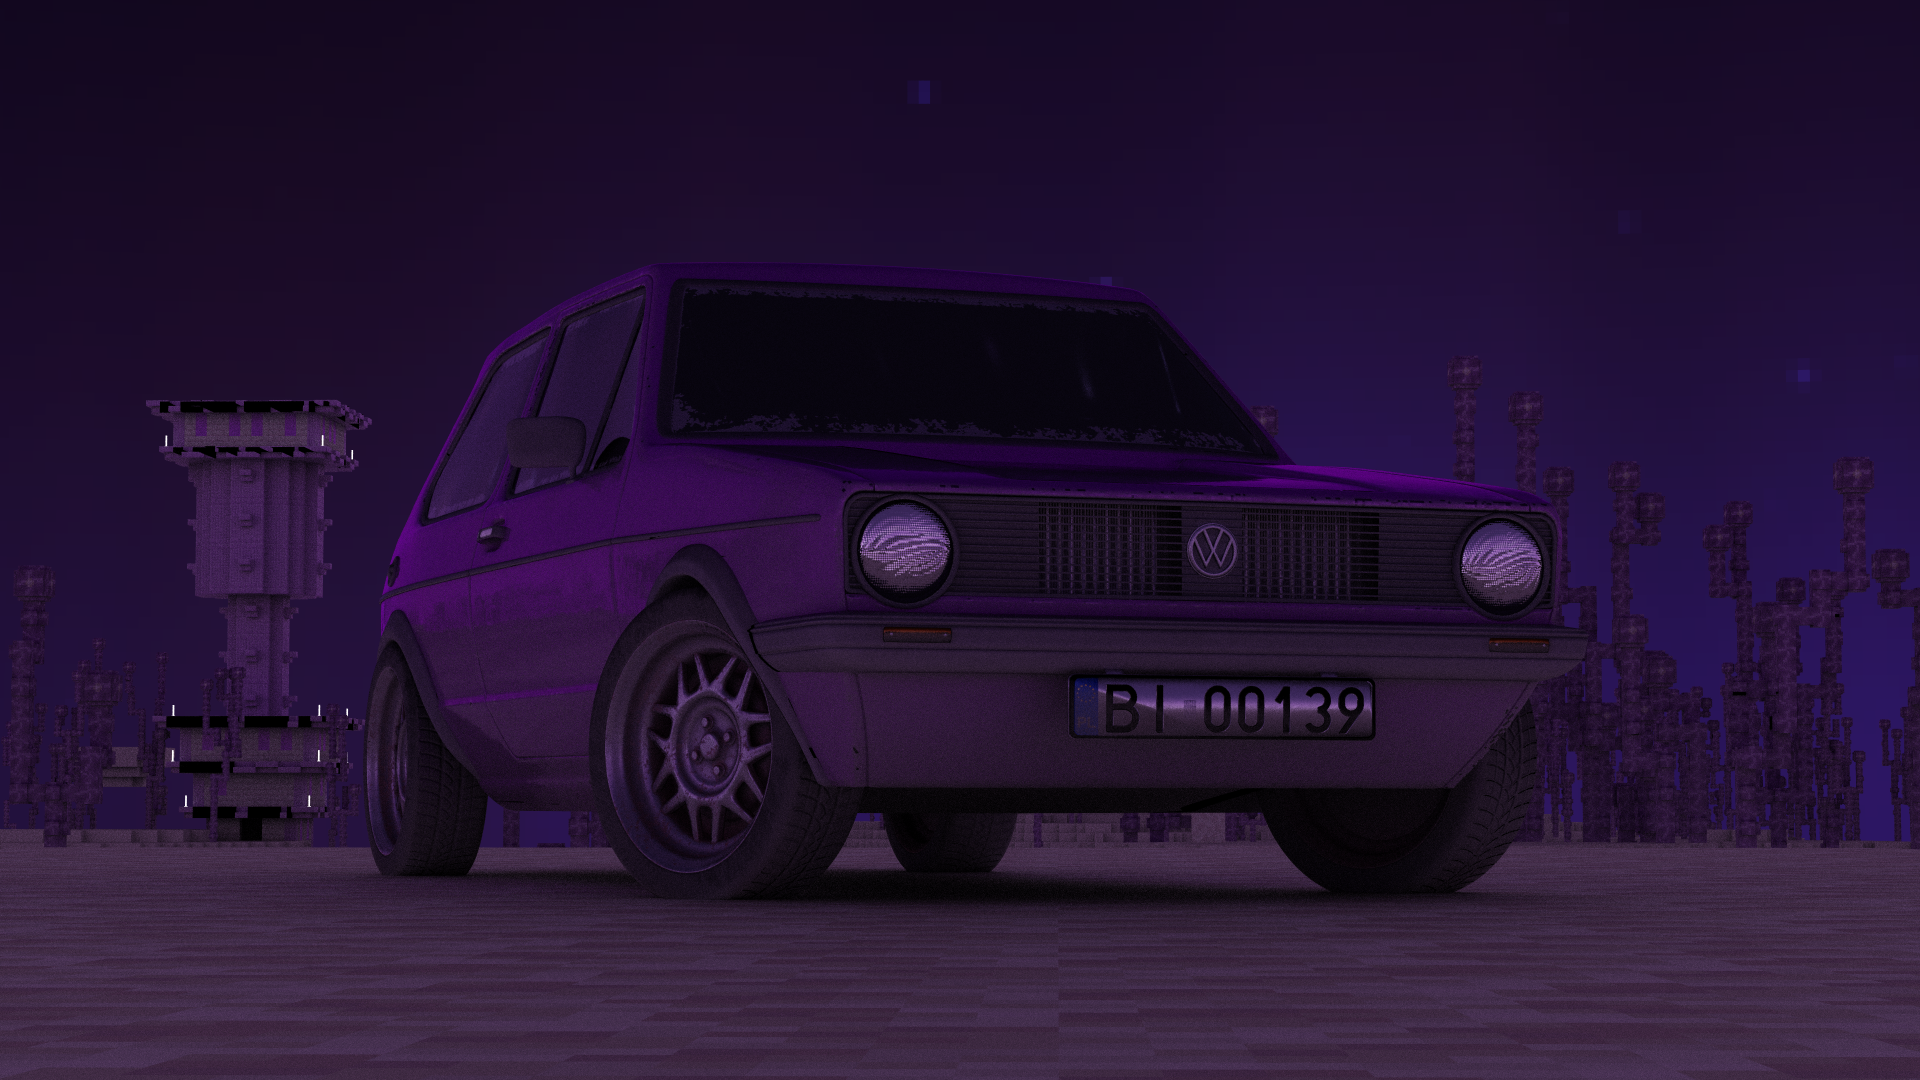
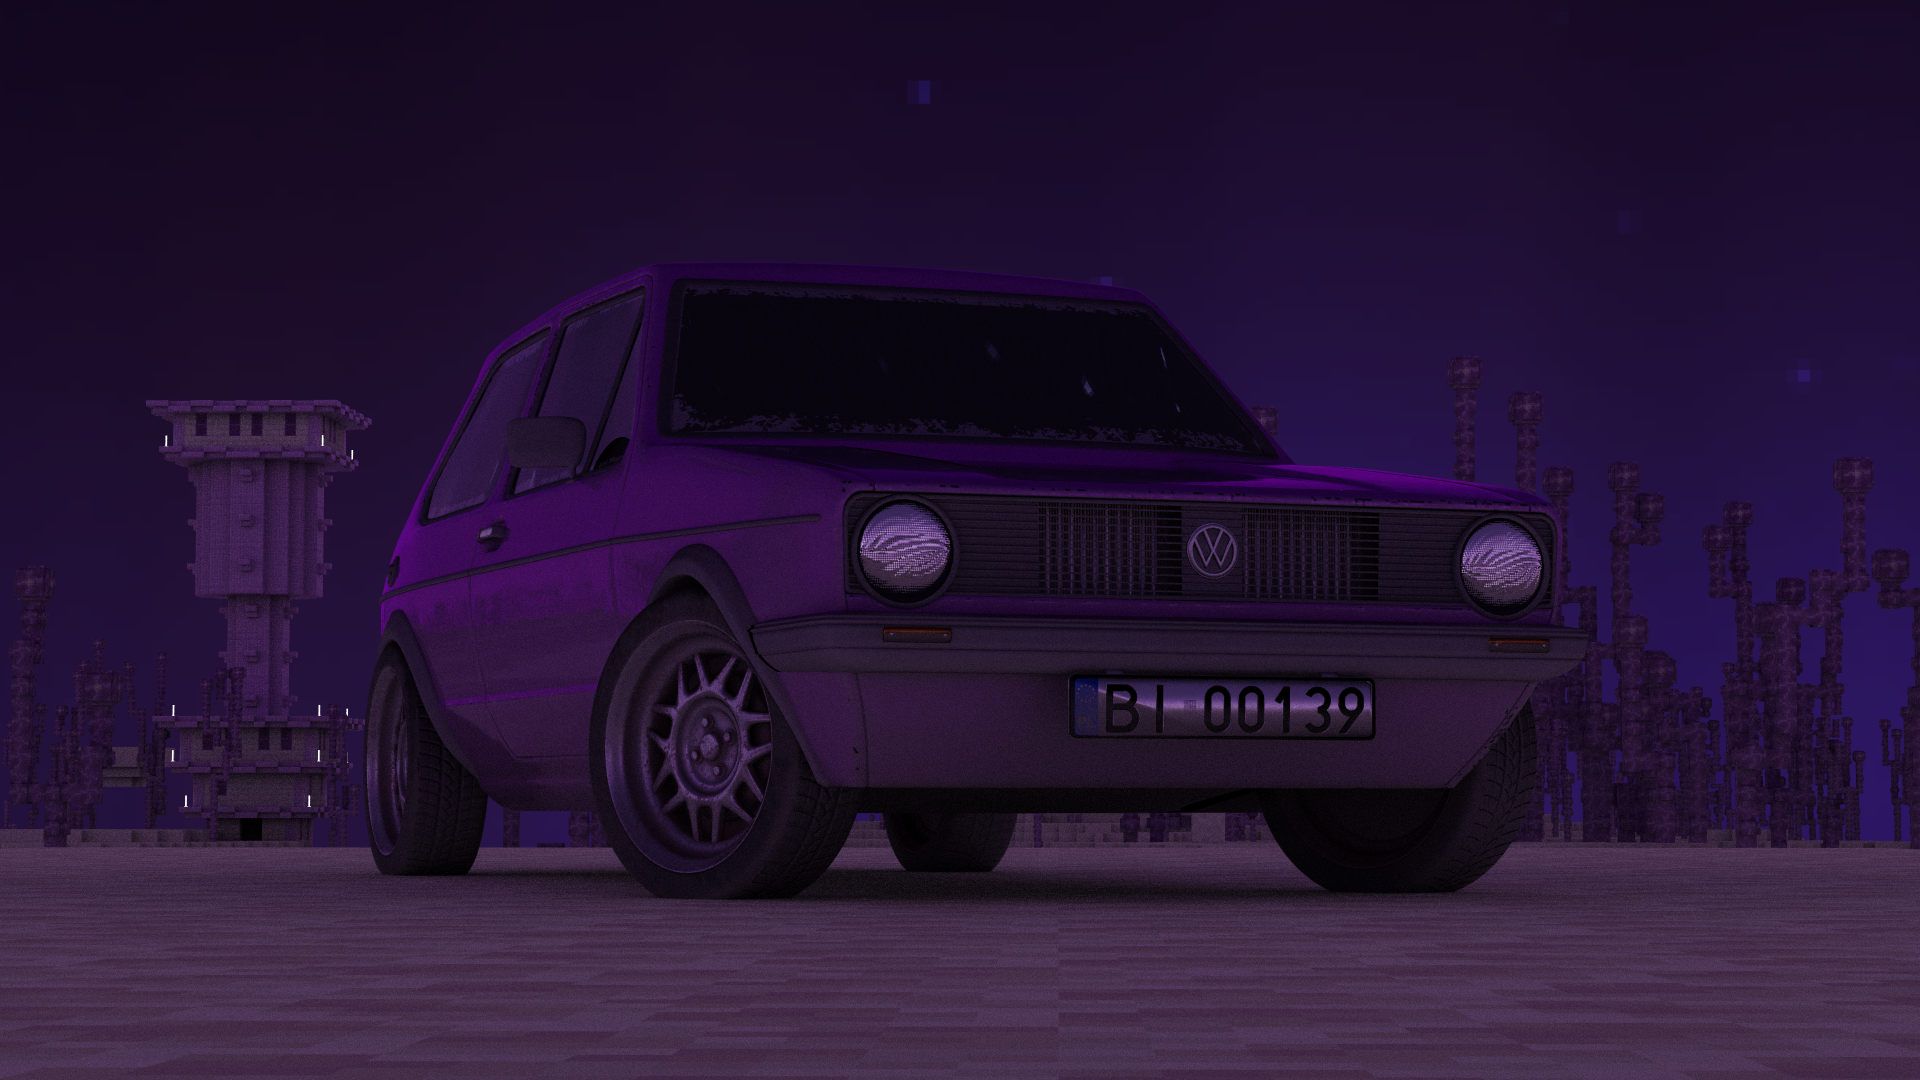
feat: Improve the dialectric shading model

Changed region(s): [[0.375, 0.825, 0.75, 0.8556], [0.0938, 0.6417, 0.1562, 0.7639], [0.0938, 0.3667, 0.1875, 0.4278]]

diff --git a/src/Tracer/BRDF.hpp b/src/Tracer/BRDF.hpp
@@ -1,5 +1,6 @@
 #pragma once
 
+#include <cmath>
 #include <glm/glm.hpp>
 #include <glm/gtc/constants.hpp>
 
@@ -22,12 +23,12 @@ static glm::vec3 BaseReflectivity(const glm::vec3& baseColor, float metallic) no
 static float DistributionGGX(float gotNH, float roughness) noexcept
 {
     gotNH = glm::clamp(gotNH, 0.0f, 1.0f);
-    float a = roughness * roughness;
+    float a = glm::max(roughness * roughness, 1e-4f);
     float a2 = a * a;
     float dotNH2 = gotNH * gotNH;
 
     float denom = (dotNH2 * (a2 - 1.0f) + 1.0f);
-    denom = glm::pi<decltype(denom)>() * denom * denom;
+    denom = glm::max(glm::pi<decltype(denom)>() * denom * denom, 1e-12f);
 
     return a2 / denom;
 }
@@ -49,16 +50,41 @@ static float GeometrySmith(float dotNV, float dotNL, float roughness) noexcept
     return ggx1 * ggx2;
 }
 
+static float FonAlbedo(float mu, float r) noexcept
+{
+    mu = glm::clamp(mu, 0.0f, 1.0f);
+    const float c = 1.0f - mu;
+    const float g = c * (0.0571085289f + c * (0.491881867f + c * (-0.332181442f + c * 0.0714429953f)));
+    return glm::min((1.0f + r * g) / (1.0f + 0.28791033f * r), 1.0f);
+}
+
+static glm::vec3 DiffuseEON(const glm::vec3& rho, float r, float dotNL, float dotNV, float dotLV) noexcept
+{
+    r = glm::clamp(r, 0.0f, 1.0f);
+    const float s = dotLV - dotNL * dotNV;
+    const float t = (s > 0.0f) ? glm::max(glm::max(dotNL, dotNV), s) : 1.0f;
+    const float af = 1.0f / (1.0f + 0.28791033f * r);
+    const glm::vec3 single = (rho / glm::pi<float>()) * af * (1.0f + r * s / glm::max(t, 1e-4f));
+    const float eFo = FonAlbedo(dotNV, r);
+    const float eFi = FonAlbedo(dotNL, r);
+    const float avg = af * (1.0f + 0.07248355f * r);
+    const glm::vec3 denom = glm::max(glm::vec3(1.0f) - rho * (1.0f - avg), glm::vec3(1e-4f));
+    const glm::vec3 rms = (rho * rho) * avg / denom;
+    return single + (rms / glm::pi<float>()) * ((1.0f - eFo) * (1.0f - eFi) / glm::max(1.0f - avg, 1e-7f));
+}
+
 inline glm::vec3 EvaluateBRDF(const glm::vec3& L, const glm::vec3& V, const glm::vec3& N,
     const glm::vec3& baseColor, float roughness, float metallic) noexcept
 {
-    roughness = glm::max(roughness, 0.05f);
+    roughness = glm::clamp(roughness, 0.01f, 1.0f);
 
     float dotNL = glm::max(glm::dot(N, L), 0.0f);
     float dotNV = glm::max(glm::dot(N, V), 0.0f);
     if (dotNL <= 0.0f || dotNV <= 0.0f) return glm::vec3(0.0f);
 
-    glm::vec3 h = glm::normalize(V + L);
+    glm::vec3 hl = V + L;
+    if (!(glm::dot(hl, hl) > 1e-12f)) return glm::vec3(0.0f);
+    glm::vec3 h = hl / std::sqrt(glm::dot(hl, hl));
     float dotNH = glm::max(glm::dot(N, h), 0.0f);
     float dotHV = glm::max(glm::dot(h, V), 0.0f);
 
@@ -70,7 +96,7 @@ inline glm::vec3 EvaluateBRDF(const glm::vec3& L, const glm::vec3& V, const glm:
     glm::vec3 ks = f;
     glm::vec3 kd = (glm::vec3(1.0f) - ks) * (1.0f - metallic);
 
-    glm::vec3 diffuse = kd * baseColor / glm::pi<float>();
+    glm::vec3 diffuse = kd * DiffuseEON(baseColor, roughness, dotNL, dotNV, glm::dot(L, V));
     glm::vec3 specular = (d * g * f) / glm::max(4.0f * dotNV * dotNL, 0.001f);
 
     return glm::max(diffuse + specular, glm::vec3(0.0f));
@@ -87,13 +113,15 @@ inline float SpecularPdf(
     const float dotNL = glm::max(glm::dot(N, L), 0.0f);
     const float dotNV = glm::max(glm::dot(N, V), 0.0f);
     if (dotNL <= 0.0f || dotNV <= 0.0f) return 0.0f;
+    roughness = glm::min(roughness, 1.0f);
 
-    const glm::vec3 h = glm::normalize(V + L);
+    const glm::vec3 hl = V + L;
+    if (!(glm::dot(hl, hl) > 1e-12f)) return 0.0f;
+    const glm::vec3 h = hl / std::sqrt(glm::dot(hl, hl));
     const float dotNH = glm::max(glm::dot(N, h), 0.0f);
-    const float dotVH = glm::max(glm::dot(V, h), 0.0f);
-    if (dotVH <= 0.0f) return 0.0f;
 
-    return DistributionGGX(dotNH, glm::max(roughness, 0.05f)) * dotNH / (4.0f * dotVH);
+    return DistributionGGX(dotNH, roughness) * GeometrySchlickGGX(dotNV, roughness) /
+           glm::max(4.0f * dotNV, 1e-6f);
 }
 
 }  // namespace BasicBackend::BRDF

diff --git a/src/Tracer/Tracer.cpp b/src/Tracer/Tracer.cpp
@@ -50,24 +50,38 @@ static glm::vec3 SampleGGXDirection(
 {
     const float u1 = jobData.randomFloat(jobData.rng);
     const float u2 = jobData.randomFloat(jobData.rng);
-    const float alpha = glm::max(roughness * roughness, 0.0025f);
-    const float alpha2 = alpha * alpha;
-    const float phi = 2.0f * glm::pi<float>() * u2;
-    const float tanTheta2 = alpha2 * u1 / glm::max(1.0f - u1, 0.0001f);
-    const float cosTheta = 1.0f / std::sqrt(1.0f + tanTheta2);
-    const float sinTheta = std::sqrt(glm::max(0.0f, 1.0f - cosTheta * cosTheta));
+    const float alpha = glm::max(roughness * roughness, 1e-4f);
+    const glm::vec3 view = -incident;
 
     glm::vec3 tangent, bitangent;
     BuildTBN(normal, tangent, bitangent);
+    const glm::vec3 vLocal(
+        glm::dot(view, tangent), glm::dot(view, bitangent), glm::dot(view, normal));
+    if (!(vLocal.z > 0.0f)) return SampleCosineHemisphere(jobData, normal);
+    const glm::vec3 vStretch =
+        glm::normalize(glm::vec3(alpha * vLocal.x, alpha * vLocal.y, vLocal.z));
 
-    glm::vec3 halfVector =
-        glm::normalize(tangent * (sinTheta * std::cos(phi)) +
-                       bitangent * (sinTheta * std::sin(phi)) + normal * cosTheta);
-    if (glm::dot(halfVector, -incident) < 0.0f) halfVector = -halfVector;
+    const float lensq = vStretch.x * vStretch.x + vStretch.y * vStretch.y;
+    const glm::vec3 b1 = (lensq > 1e-7f)
+                             ? glm::vec3(-vStretch.y, vStretch.x, 0.0f) / std::sqrt(lensq)
+                             : glm::vec3(1.0f, 0.0f, 0.0f);
+    const glm::vec3 b2 = glm::cross(vStretch, b1);
+
+    const float r = std::sqrt(u1);
+    const float phi = 2.0f * glm::pi<float>() * u2;
+    const float t1 = r * std::cos(phi);
+    const float s = 0.5f * (1.0f + vStretch.z);
+    const float t2 = (1.0f - s) * std::sqrt(glm::max(0.0f, 1.0f - t1 * t1)) + s * r * std::sin(phi);
+
+    const glm::vec3 nH =
+        t1 * b1 + t2 * b2 + std::sqrt(glm::max(0.0f, 1.0f - t1 * t1 - t2 * t2)) * vStretch;
+    const glm::vec3 halfVec = tangent * (alpha * nH.x) + bitangent * (alpha * nH.y) +
+                              normal * glm::max(0.0f, nH.z);
+    if (!(glm::dot(halfVec, halfVec) > 1e-14f)) return SampleCosineHemisphere(jobData, normal);
+    const glm::vec3 halfVector = halfVec / std::sqrt(glm::dot(halfVec, halfVec));
 
     const glm::vec3 reflected = glm::reflect(incident, halfVector);
-    return (glm::dot(reflected, normal) > 0.0f) ? glm::normalize(reflected)
-                                                : SampleCosineHemisphere(jobData, normal);
+    return glm::normalize(reflected);
 }
 
 static float ComputeSpecularProbability(const glm::vec3& viewDir, const glm::vec3& normal,
@@ -360,8 +374,8 @@ Tracer::Tracer::LightOutput Tracer::Tracer::ProcessRayForward(
 
     jobData.samplesTraced++;
 
-    output.totalLight =
-        output.emittedLight + output.directLight + output.indirectLight + output.skyLight;
+    output.totalLight = glm::max(output.emittedLight, 0.0f) + glm::max(output.directLight, 0.0f) +
+                        glm::max(output.indirectLight, 0.0f) + glm::max(output.skyLight, 0.0f);
     output.totalLight = ApplyColorCorrection(jobData, output.totalLight);
     return output;
 }
